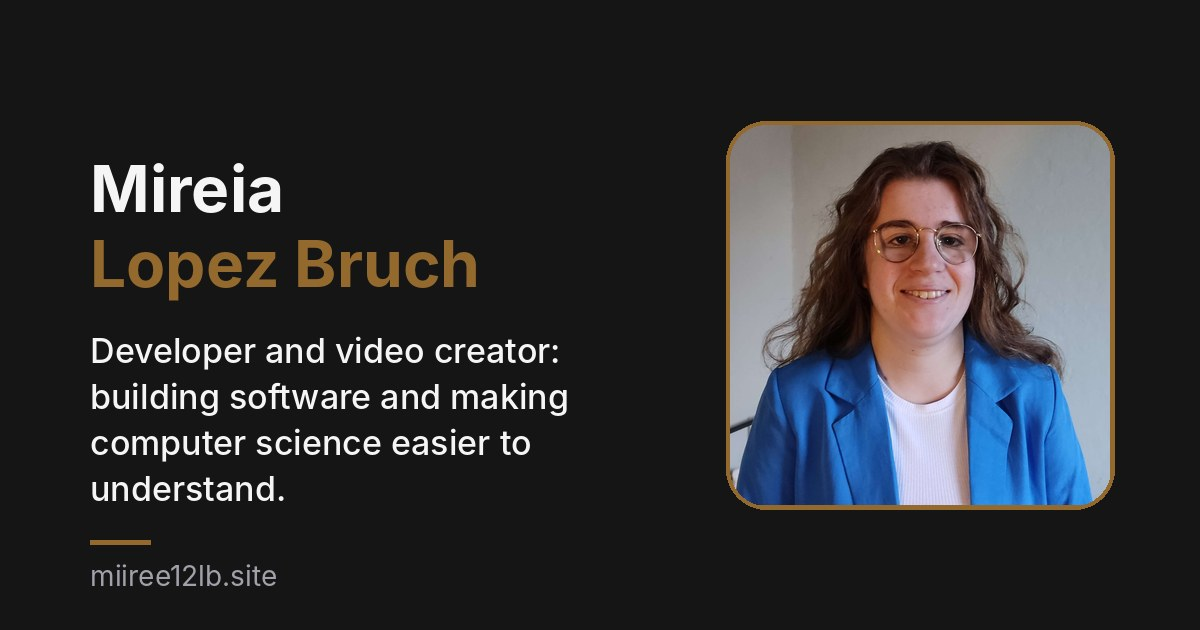
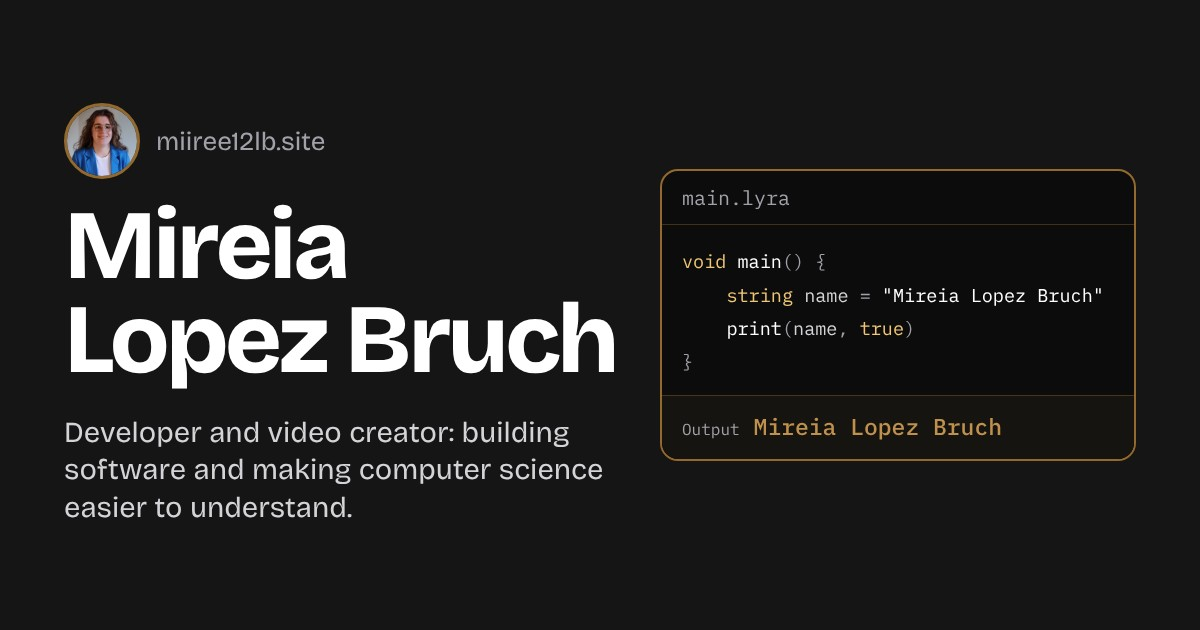
Lyra code sample in the case study, new link-preview image

diff --git a/src/lyraSyntax.js b/src/lyraSyntax.js
@@ -1,0 +1,45 @@
+/* A small highlighter for Lyra, following the keywords and literals of the Lyra grammar.
+   Turns source code into lines of [kind, text] tokens; the kind picks the colour
+   (same colours as the code panel on Home). */
+const TYPES = new Set(["int", "float", "char", "bool", "string", "list", "map", "void"]);
+const KEYWORDS = new Set(["if", "else", "while", "for", "return", "or", "and", "not"]);
+const LITERALS = new Set(["true", "false"]);
+
+const RULES = [
+    ["com", /^\/\/.*/],
+    ["sp", /^\s+/],
+    ["str", /^"(?:\\.|[^"\\])*"/],
+    ["str", /^'(?:\\.|[^'\\])*'/],
+    ["num", /^\d+(?:\.\d+)?/],
+    ["word", /^[A-Za-z][A-Za-z0-9_]*/],
+    ["pun", /^[^\sA-Za-z0-9"']+/],
+];
+
+function tokenizeLine(line) {
+    const tokens = [];
+    let rest = line;
+    while (rest.length) {
+        for (const [kind, re] of RULES) {
+            const m = rest.match(re);
+            if (!m) continue;
+            let k = kind;
+            const text = m[0];
+            if (kind === "word") {
+                const after = rest.slice(text.length);
+                if (TYPES.has(text)) k = "ty";
+                else if (KEYWORDS.has(text)) k = "kw";
+                else if (LITERALS.has(text)) k = "num";
+                else if (/^\s*\(/.test(after)) k = "fn"; // a name followed by ( is a call or a definition
+                else k = "id";
+            }
+            tokens.push([k, text]);
+            rest = rest.slice(text.length);
+            break;
+        }
+    }
+    return tokens;
+}
+
+export function highlightLyra(code) {
+    return code.replace(/\s+$/, "").split("\n").map(tokenizeLine);
+}

diff --git a/src/caseStudies.js b/src/caseStudies.js
@@ -167,6 +167,35 @@ const caseStudies = [
             "Lyra aims to close that gap: readable syntax in the style of C++ and Java, strong static types checked before the program runs, automatic memory management, and compilation to optimised native code.",
         ],
 
+        // One of the test programs, with what it prints when compiled and run
+        sample: {
+            file: "bubbleSort.lyra",
+            caption: "A bubble sort from the project's test programs. Lists know their own size, declarations need no semicolon, and print's second argument ends the line.",
+            code: `void printList(list<int> l) {
+    for (int i = 0; i < l.size(); i++) {
+        print(l[i], false)
+        print(' ', false)
+    }
+    print('', true)
+}
+
+void main () {
+    list<int> ls = [10, -3, 7, 5, 2, 100, -30]
+    printList(ls)
+    for (int i = 0; i < ls.size() - 1; i++) {
+        for (int j = 0; j < ls.size() - i - 1; j++) {
+            if (ls[j] > ls[j+1]) {
+                int temp = ls[j]
+                ls[j] = ls[j+1]
+                ls[j+1] = temp
+            }
+        }
+    }
+    printList(ls)
+}`,
+            output: "10 -3 7 5 2 100 -30\n-30 -3 2 5 7 10 100",
+        },
+
         responsibilities: [
             "Designed the language and its full grammar, scoped with MoSCoW: primitive types, control flow, functions and input/output as the minimum viable product, then strings, lists and maps.",
             "Built a two-pass compiler in C++: a type and scope checker, then an LLVM IR generator, on top of an ANTLR-generated lexer and parser.",

diff --git a/src/LyraSample.jsx b/src/LyraSample.jsx
@@ -1,0 +1,38 @@
+import React from "react";
+import { highlightLyra } from "./lyraSyntax.js";
+
+import "./css/lyraHero.css";
+
+/* A real Lyra program shown in the same panel as the hero on Home, but static:
+   the code, then exactly what it prints when compiled and run. */
+export default function LyraSample({ file, code, output, caption }) {
+    const lines = highlightLyra(code);
+
+    return (
+        <figure className="lyra-panel lyra-static">
+            <div className="lyra-bar">
+                <span className="lyra-file">{file}</span>
+            </div>
+
+            {/* A div rather than <pre><code>: some browser extensions take over code blocks */}
+            <div className="lyra-src" role="region" aria-label={`${file} source code`} tabIndex={0}>
+                {lines.map((line, i) => (
+                    <span className="lyra-line" key={i}>
+                        {line.length === 0
+                            ? " "
+                            : line.map(([kind, text], j) => <span className={`tok-${kind}`} key={j}>{text}</span>)}
+                    </span>
+                ))}
+            </div>
+
+            <div className="lyra-output lyra-output-block">
+                <span className="lyra-output-label">Output</span>
+                <span className="lyra-output-text">
+                    {output.split("\n").map((l, i) => <span className="lyra-line" key={i}>{l}</span>)}
+                </span>
+            </div>
+
+            {caption && <figcaption className="lyra-caption">{caption}</figcaption>}
+        </figure>
+    );
+}

diff --git a/src/CaseStudy.jsx b/src/CaseStudy.jsx
@@ -4,6 +4,7 @@ import {
     ArrowLeft, ExternalLink, Code2, Calendar, User, Users, Target, Layers, Scale, TriangleAlert, Lightbulb, FileText,
 } from "lucide-react";
 import { getCaseStudy, isDev } from "./caseStudies.js";
+import LyraSample from "./LyraSample.jsx";
 import "./css/caseStudy.css";
 
 const hasText = (v) => (Array.isArray(v) ? v.length > 0 : Boolean(v && String(v).trim()));
@@ -146,6 +147,12 @@ export default function CaseStudy() {
             {hasText(cs.problem) && (
                 <Section icon={Target} title="The problem">
                     {cs.problem.map((p, i) => <p key={i}><T>{p}</T></p>)}
+                </Section>
+            )}
+
+            {cs.sample && (
+                <Section icon={Code2} title="What Lyra looks like">
+                    <LyraSample file={cs.sample.file} code={cs.sample.code} output={cs.sample.output} caption={cs.sample.caption} />
                 </Section>
             )}
 

diff --git a/src/css/lyraHero.css b/src/css/lyraHero.css
@@ -176,3 +176,34 @@
         font-size: 0.68rem;
     }
 }
+
+/* ---------- Static sample (Lyra case study) ---------- */
+.lyra-panel.lyra-static {
+    margin: 8px 0 0;
+}
+
+.lyra-static .lyra-src:focus-visible {
+    outline: 2px solid var(--gold-text);
+    outline-offset: -2px;
+}
+
+.lyra-output-block {
+    align-items: flex-start;
+}
+
+.lyra-output-block .lyra-output-label {
+    padding-top: 2px;
+}
+
+.lyra-output-block .lyra-output-text {
+    font-size: 0.85rem;
+    line-height: 1.6;
+}
+
+.lyra-caption {
+    padding: 10px 16px 12px;
+    border-top: 1px solid rgba(148, 105, 45, 0.35);
+    font-family: var(--font-body);
+    font-size: 0.85rem;
+    color: var(--text-muted);
+}

diff --git a/src/LyraHero.jsx b/src/LyraHero.jsx
@@ -10,7 +10,7 @@ import "./css/lyraHero.css";
    Each line is a list of [kind, text] tokens; the kind picks the colour. */
 const PROGRAM = [
     [["com", "// Lyra, the language from my thesis"]],
-    [["kw", "void"], ["sp", " "], ["fn", "main"], ["pun", "() {"]],
+    [["ty", "void"], ["sp", " "], ["fn", "main"], ["pun", "() {"]],
     [["sp", "    "], ["ty", "string"], ["sp", " "], ["id", "name"], ["pun", " = "], ["str", "\"Mireia Lopez Bruch\""]],
     [["sp", "    "], ["ty", "string"], ["sp", " "], ["id", "from"], ["pun", " = "], ["str", "\"Barcelona\""]],
     [["sp", "    "], ["ty", "list"], ["pun", "<"], ["ty", "string"], ["pun", ">"], ["sp", " "], ["id", "roles"], ["pun", " = ["]],

diff --git a/src/index.jsx b/src/index.jsx
@@ -20,6 +20,7 @@ const Interests = lazy(() => import("./Interests.jsx"));
 import "@fontsource-variable/bricolage-grotesque";
 import "@fontsource/ibm-plex-mono/400.css";
 import "@fontsource/ibm-plex-mono/500.css";
+import "@fontsource/ibm-plex-mono/400-italic.css"; // code comments
 import "./css/theme.css";
 import "./css/root.css";
 import "./css/components.css";
